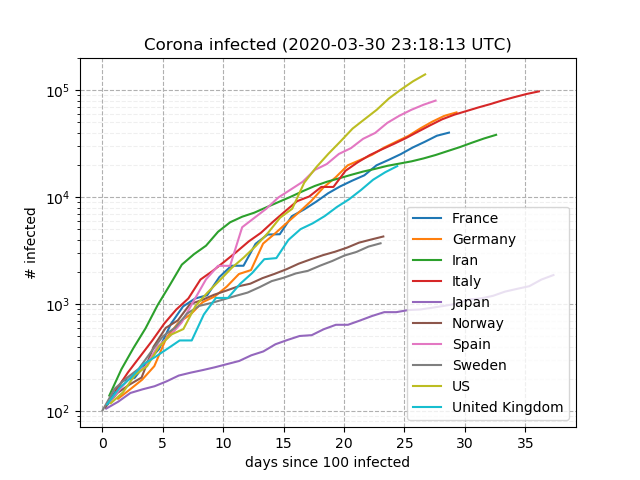
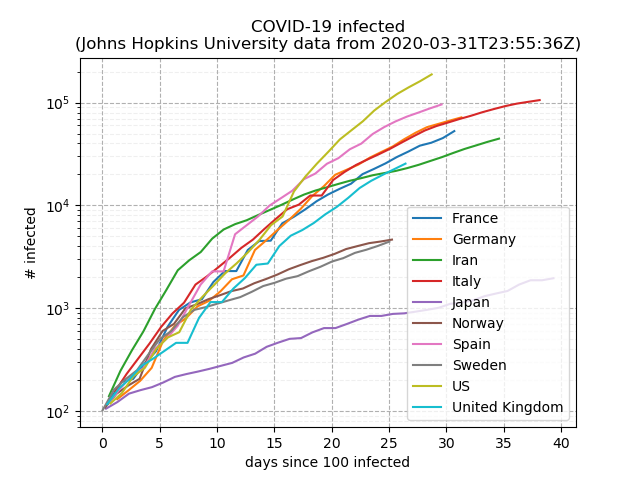
options and help modified

diff --git a/analyize_stats.py b/analyize_stats.py
@@ -17,8 +17,12 @@ category2filename = {
     'deaths': 'time_series_covid19_deaths_global.csv'
 }
 
-parser = argparse.ArgumentParser()
-parser.add_argument("-c", "--category", action="store", choices=['infected', 'recovered', 'deaths'], default="infected", help="Generate stats for number either of category [infected|recovered|deaths].")
+co = ''
+parser = argparse.ArgumentParser(description='Read current covid-19 data from Johns Hopkins University, select countries of interest, compare countries course by shifting corresponding curve to a virtual outbreak date.')
+group = parser.add_mutually_exclusive_group()
+group.add_argument("-i", "--infected", action="store_const", const="infected", dest="category", default="infected", help="Generate stats for infected (default).")
+group.add_argument("-r", "--recovered", action="store_const", const="recovered", dest="category", help="Generate stats for recovered.")
+group.add_argument("-d", "--deaths", action="store_const", const="deaths", dest="category", help="Generate stats for deaths.")
 parser.add_argument("-l", "--country-list", nargs='*', default=default_targets, help="List of countries/regions to analyse.")
 parser.add_argument("-t", "--trigger-count", type=int, action="store", default=100, help="Case count from which to start analysis.")
 args = parser.parse_args()
@@ -81,10 +85,10 @@ for country, cases in data.items():
             data[country] = [ v for v in cases[idx:] ]
             break
 
-title = "Times to double number of {} people in days".format(args.category)
+title = "Times to double number of {} in days".format(args.category)
 print(title)
 print("="*len(title))
-print("                  {}".format(ts))
+print("(Johns Hopkins University data from {})".format(ts))
 print("                  last day and last week average")
 print("Country           1-day  7-days")
 print("-------------------------------")
@@ -99,7 +103,7 @@ plt.gca().set_yscale('log')
 plt.legend(loc='best')
 plt.xlabel("days since {} {}".format(args.trigger_count, args.category))
 plt.ylabel("# {}".format(args.category))
-plt.title("Corona {} ({})".format(args.category, ts))
+plt.title("COVID-19 {}\n(Johns Hopkins University data from {})".format(args.category, ts))
 plt.grid(b=True, which='major', linestyle='--')
 plt.grid(b=True, which='minor', linestyle='--', alpha=0.2)
 plt.show()    

diff --git a/README.md b/README.md
@@ -2,24 +2,49 @@
 
 This python3 script reads the covid-19 statistics from Johns Hopkins University and normalizes data to an imaginary start date where the number of infected people rises above a given threshold (e.g. 100). Furthermore the time it takes until the number of infected people doubles are calculated for the last day and the last week.
 
-Example output:
+```
+usage: analyize_stats.py [-h] [-i | -r | -d]
+                         [-l [COUNTRY_LIST [COUNTRY_LIST ...]]]
+                         [-t TRIGGER_COUNT]
+
+Read current covid-19 data from Johns Hopkins University, select countries of
+interest, compare countries course by shifting corresponding curve to a
+virtual outbreak date.
+
+optional arguments:
+  -h, --help            show this help message and exit
+  -i, --infected        Generate stats for infected (default).
+  -r, --recovered       Generate stats for recovered.
+  -d, --deaths          Generate stats for deaths.
+  -l [COUNTRY_LIST [COUNTRY_LIST ...]], --country-list [COUNTRY_LIST [COUNTRY_LIST ...]]
+                        List of countries/regions to analyse.
+  -t TRIGGER_COUNT, --trigger-count TRIGGER_COUNT
+                        Case count from which to start analysis.
+```
+
+Example to compare number of recovered cases for Germany and Italy shifting day zero to point in time when number of cases exided 200:
+```
+./analyize_stats.py -r -t 200 -l Italy Germany
+```
+
+Example default output:
 ![covid-19 stats](/example.png)
 
 ```
-Times to double number of infected people in days
-=================================================
-                  2020-03-30 23:21:50 UTC
+Times to double number of infected in days
+==========================================
+(Johns Hopkins University data from 2020-03-31T23:55:36Z)
                   last day and last week average
 Country           1-day  7-days
 -------------------------------
-France         :  10.36   5.28
-Germany        :   9.43   5.30
-Iran           :   8.80   8.49
-Italy          :  12.63   9.67
-Japan          :   7.12   9.20
-Norway         :  10.69   8.28
-Spain          :   7.73   4.74
-Sweden         :   9.79   7.48
-US             :   4.68   3.36
-United Kingdom :   5.21   3.93
+France         :   4.43   5.72
+Germany        :   9.76   6.24
+Iran           :   9.59   8.27
+Italy          :  17.74  11.42
+Japan          :  15.21   9.84
+Norway         :  16.06  10.04
+Spain          :   7.99   5.53
+Sweden         :   7.20   7.32
+US             :   4.59   3.87
+United Kingdom :   5.48   4.26
 ```
